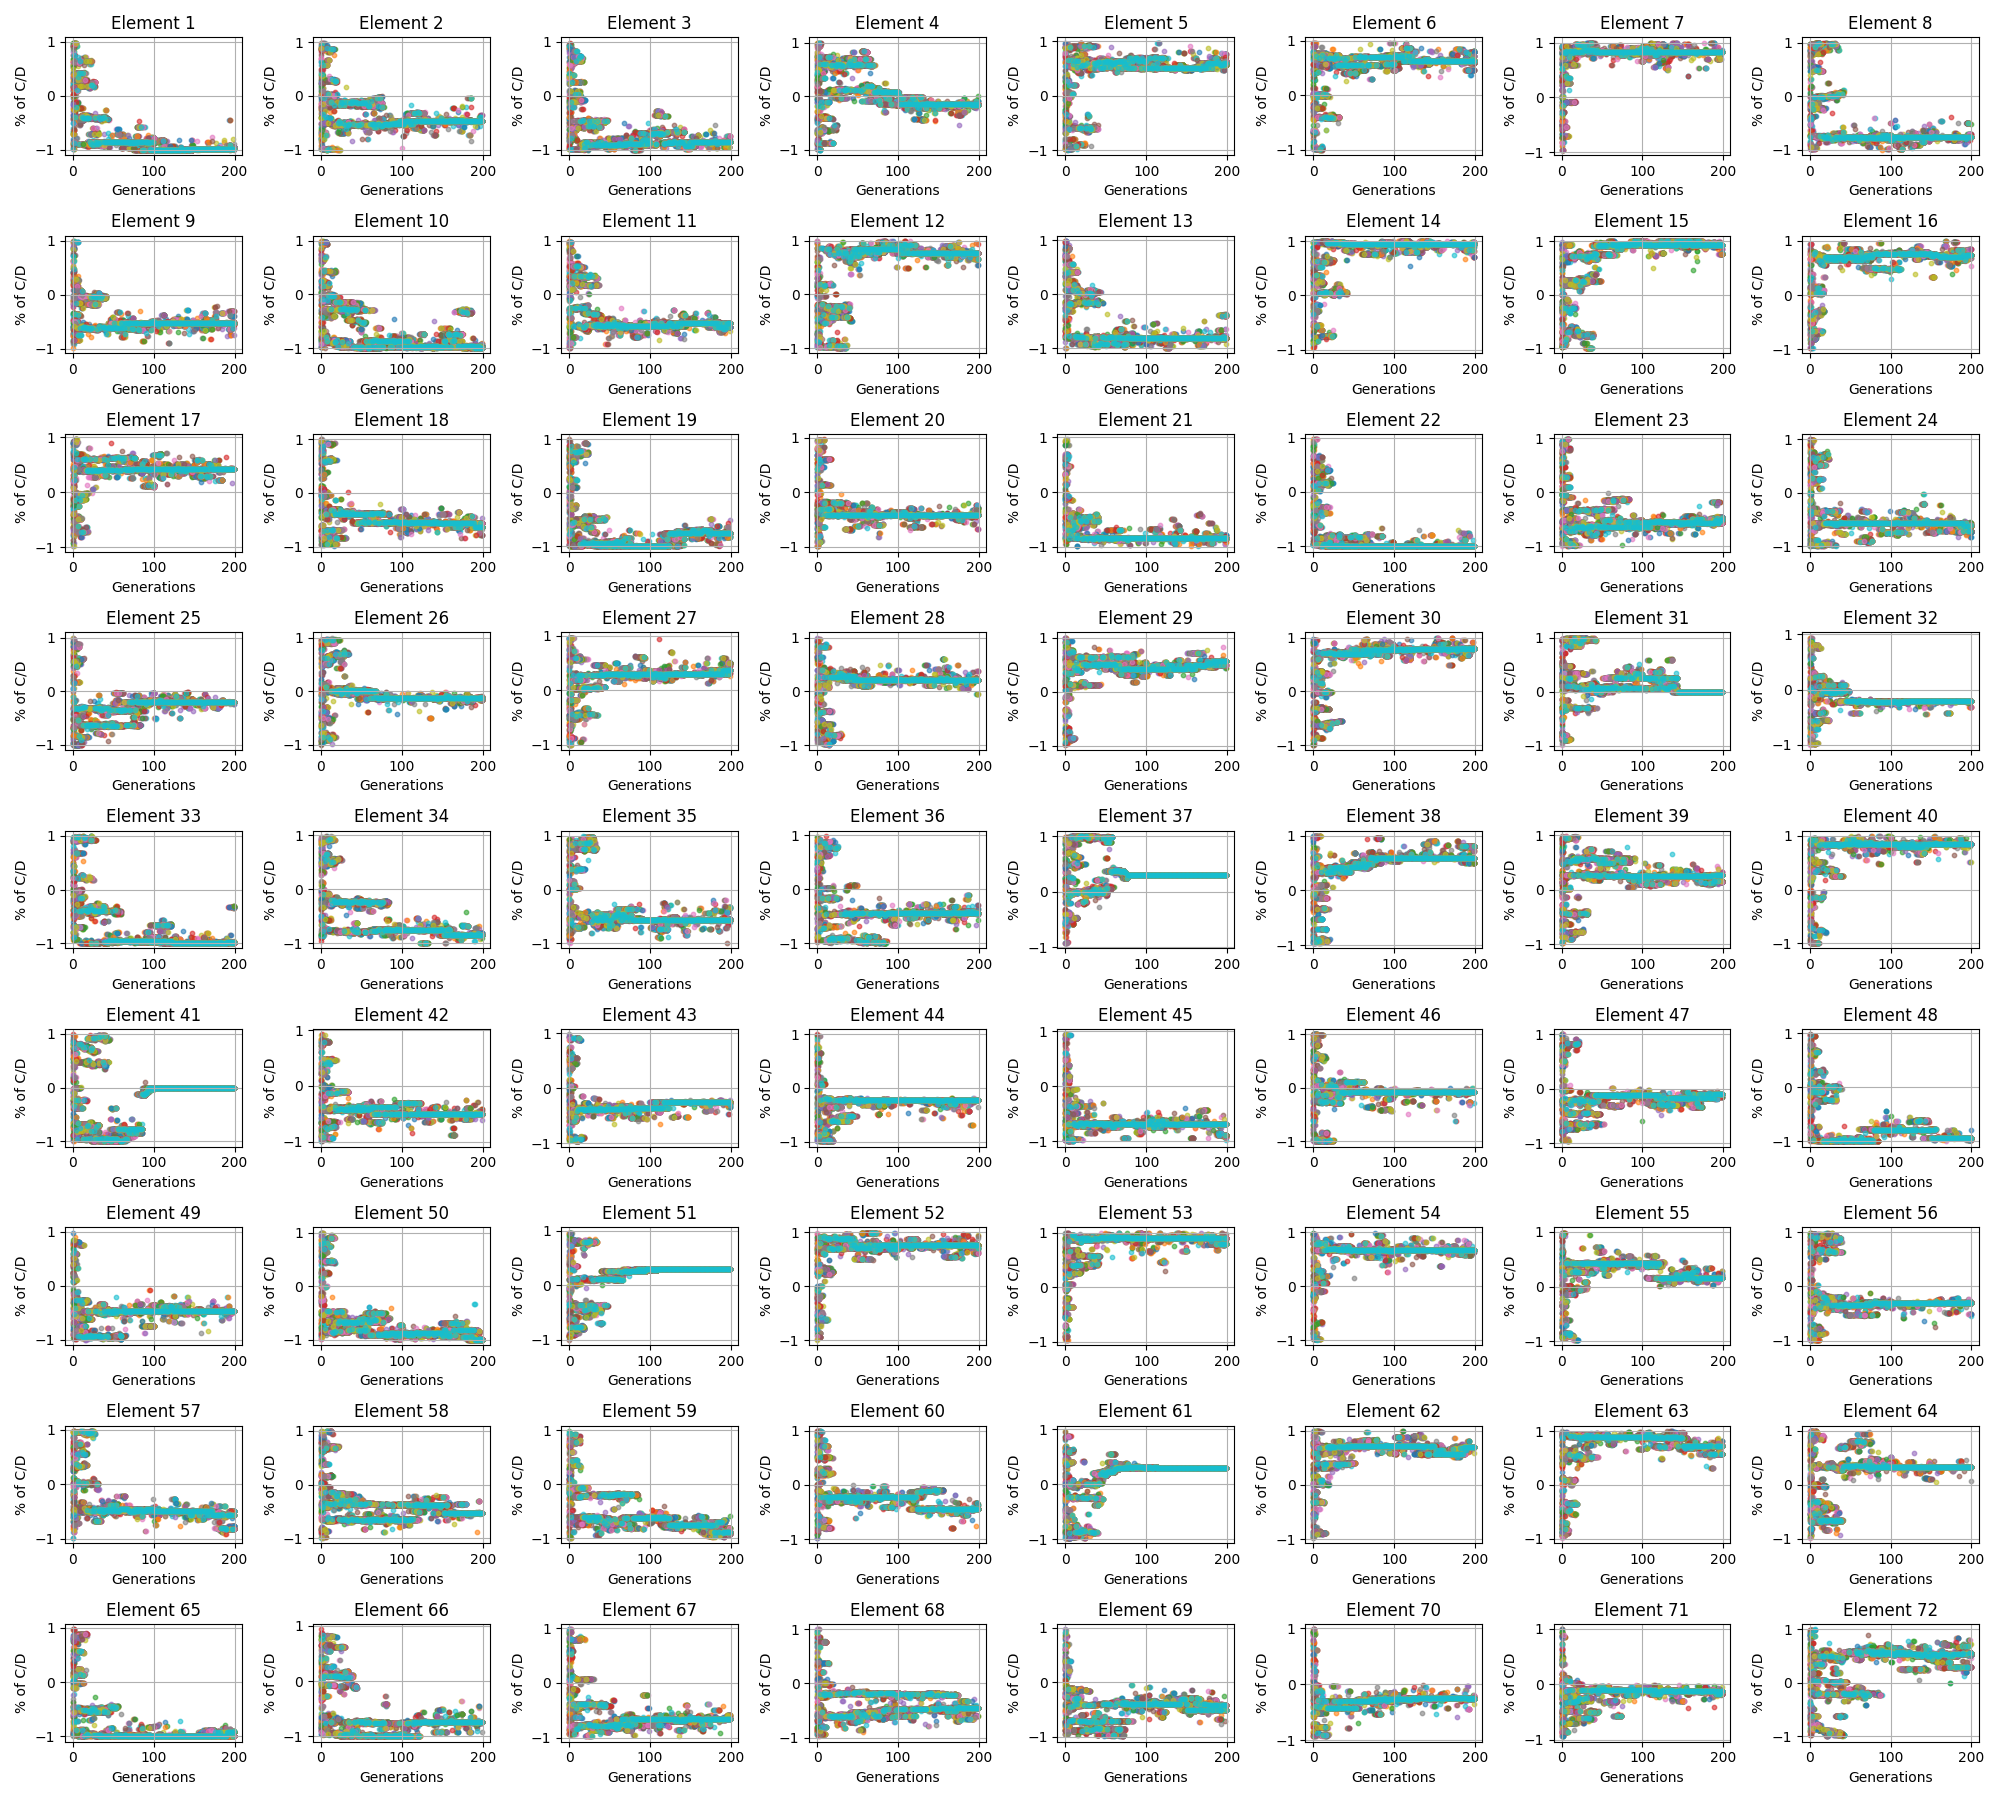
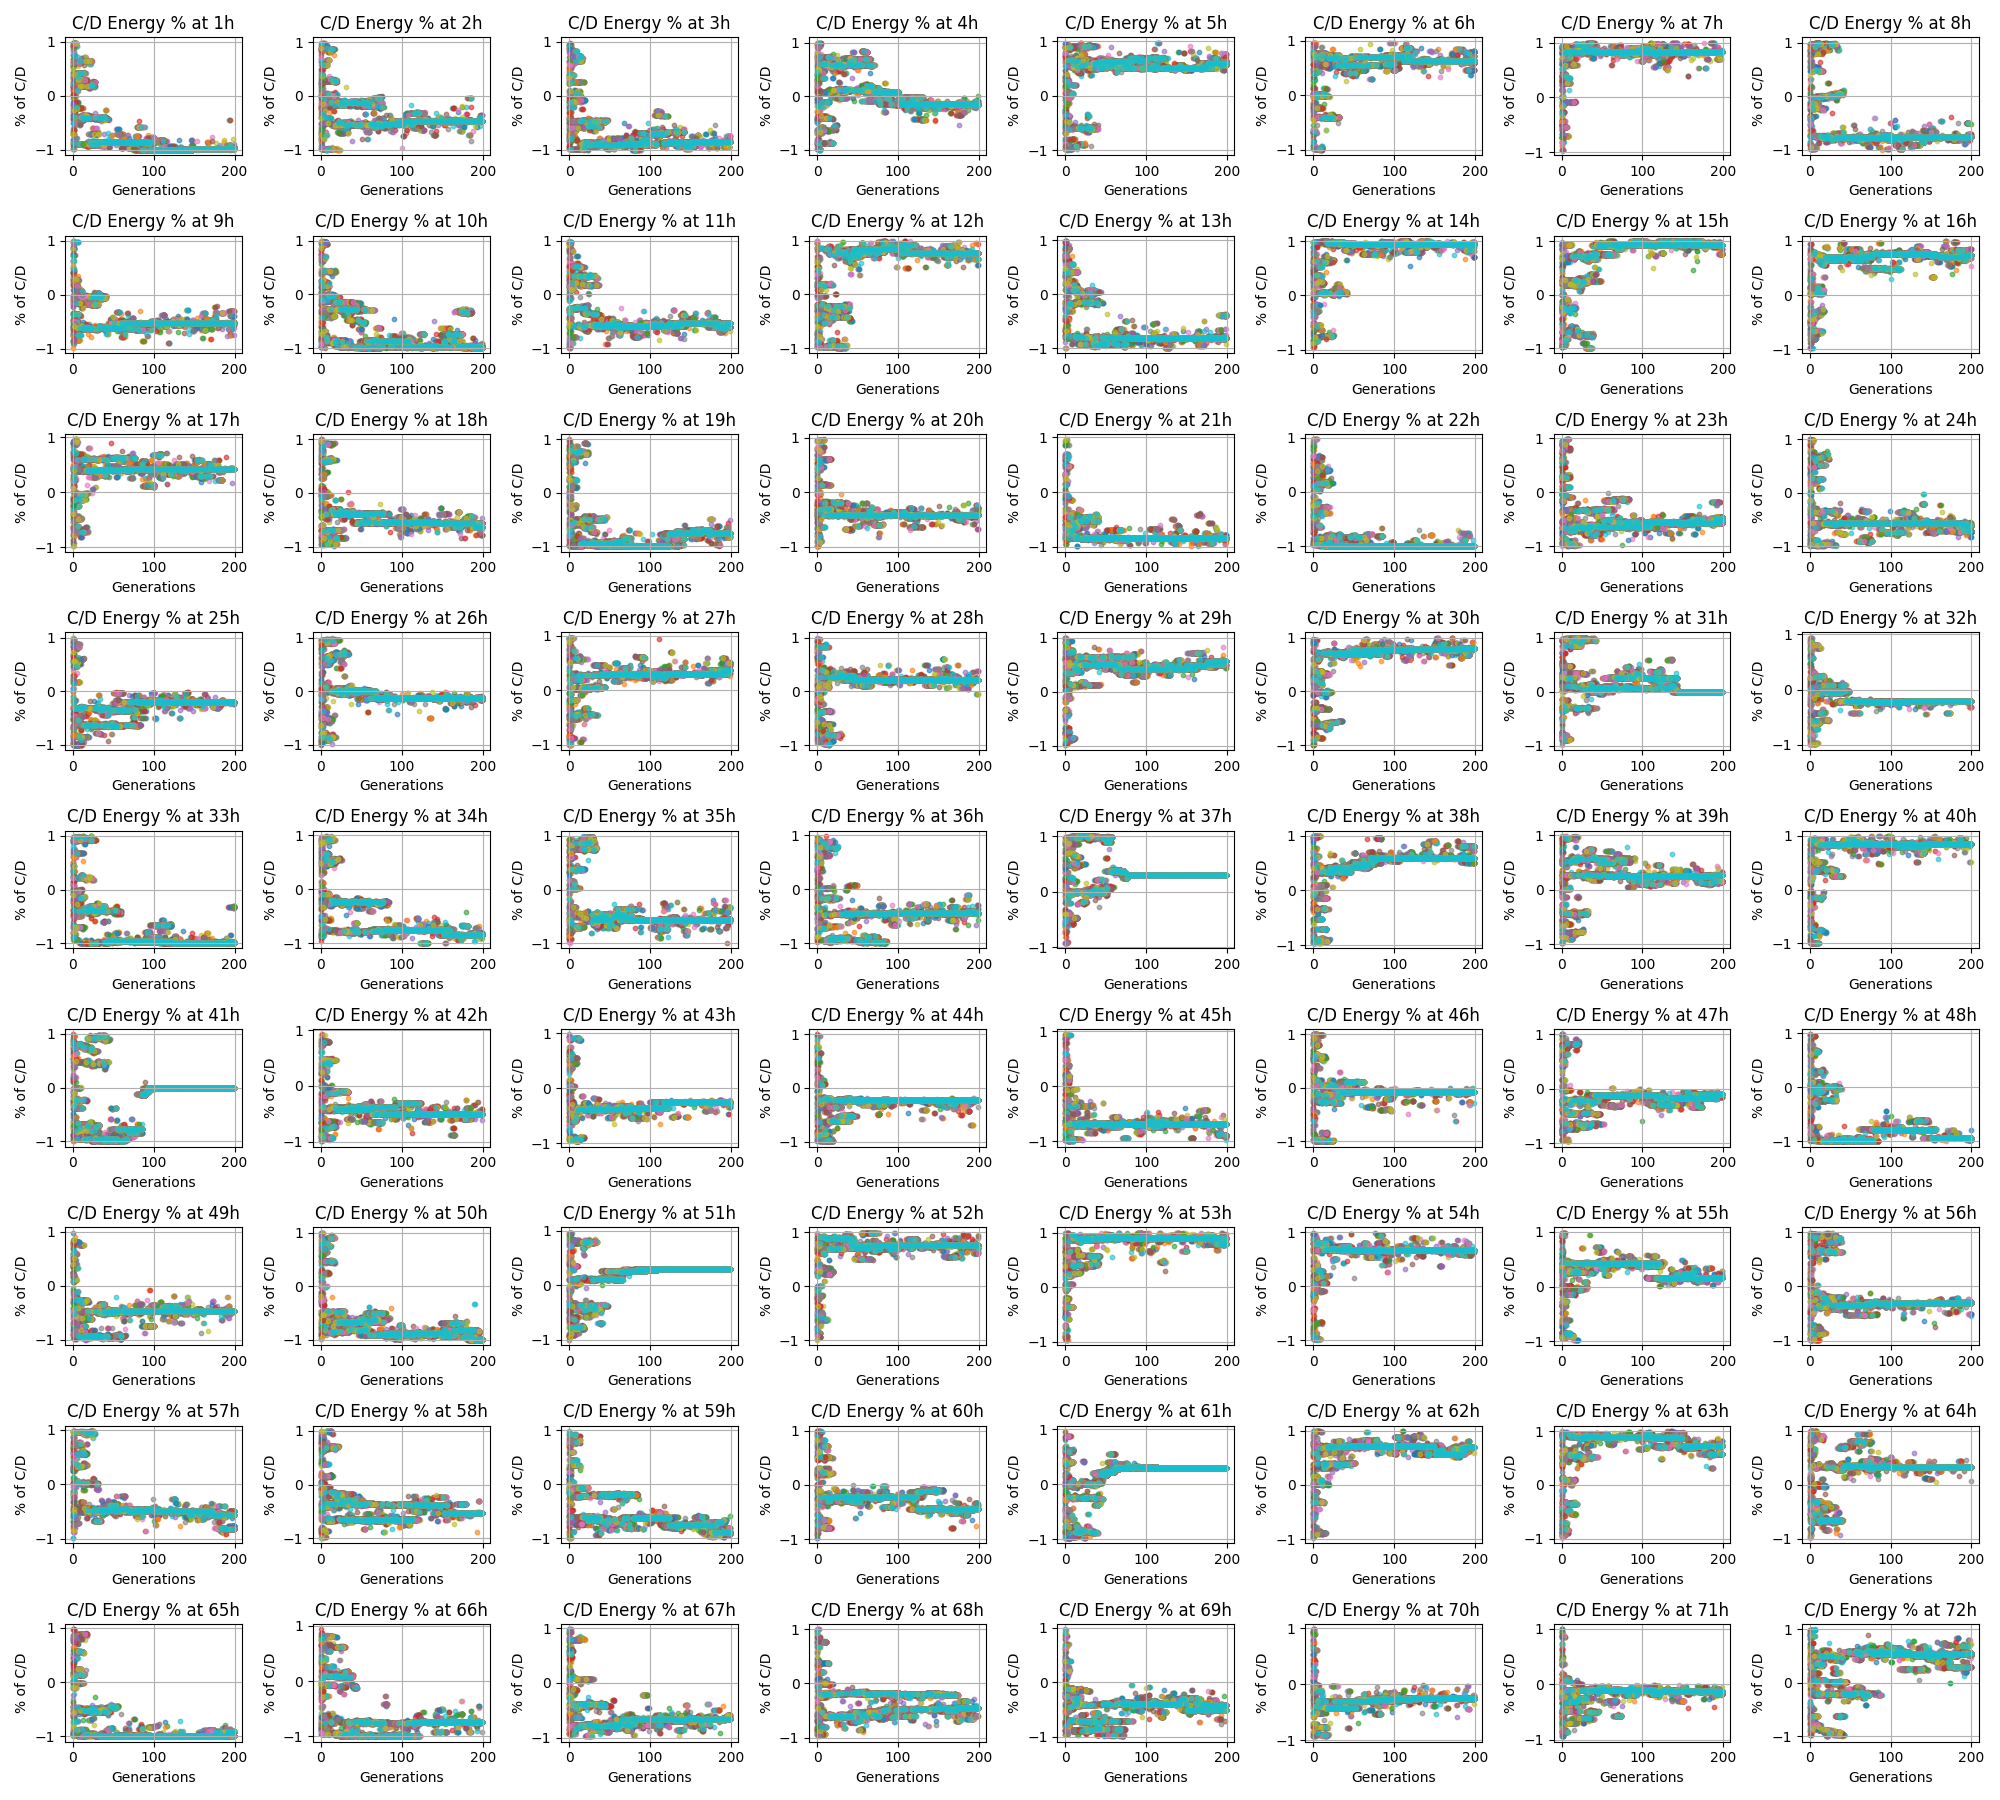
Update #15

diff --git a/Plots.py b/Plots.py
@@ -101,7 +101,7 @@ def convergence(n_gen,timewindow,pop_size,X):
         ax = axes[k]
         for i in range(pop_size):
             ax.scatter(timesteps, X[:, i, k], s=10, alpha=0.6)
-        ax.set_title(f'Element {k + 1}')
+        ax.set_title(f'C/D Energy % at {k + 1}h')
         ax.set_xlabel('Generations')
         ax.set_ylabel('% of C/D')
         ax.grid(True)
